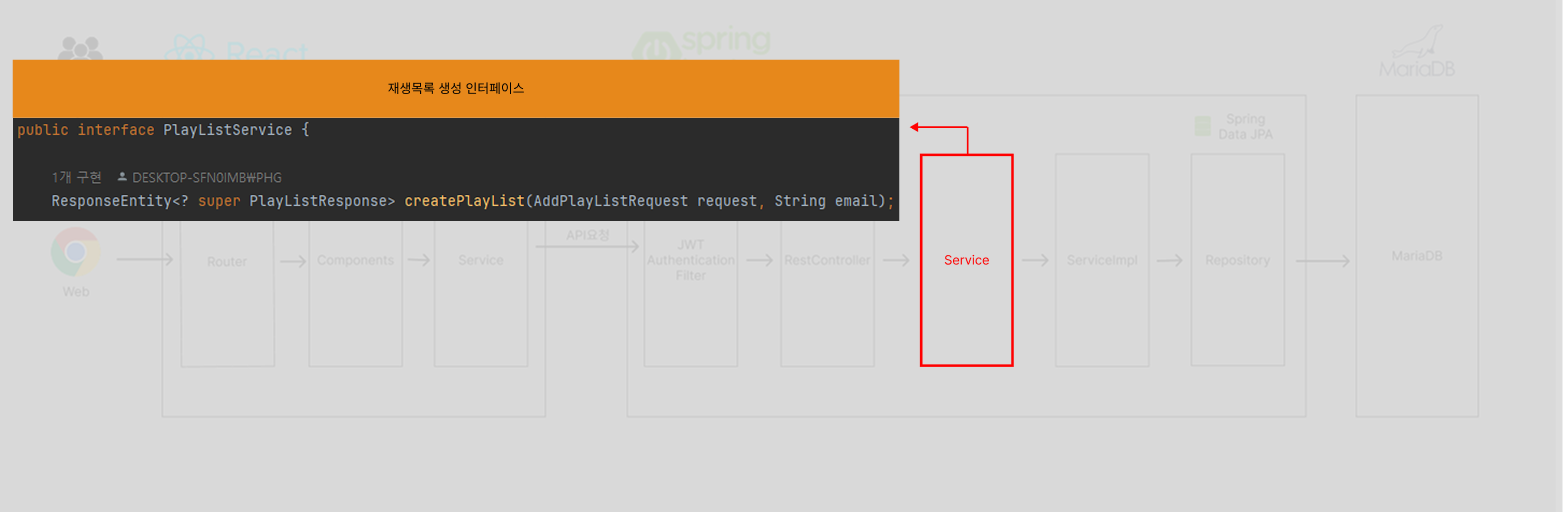
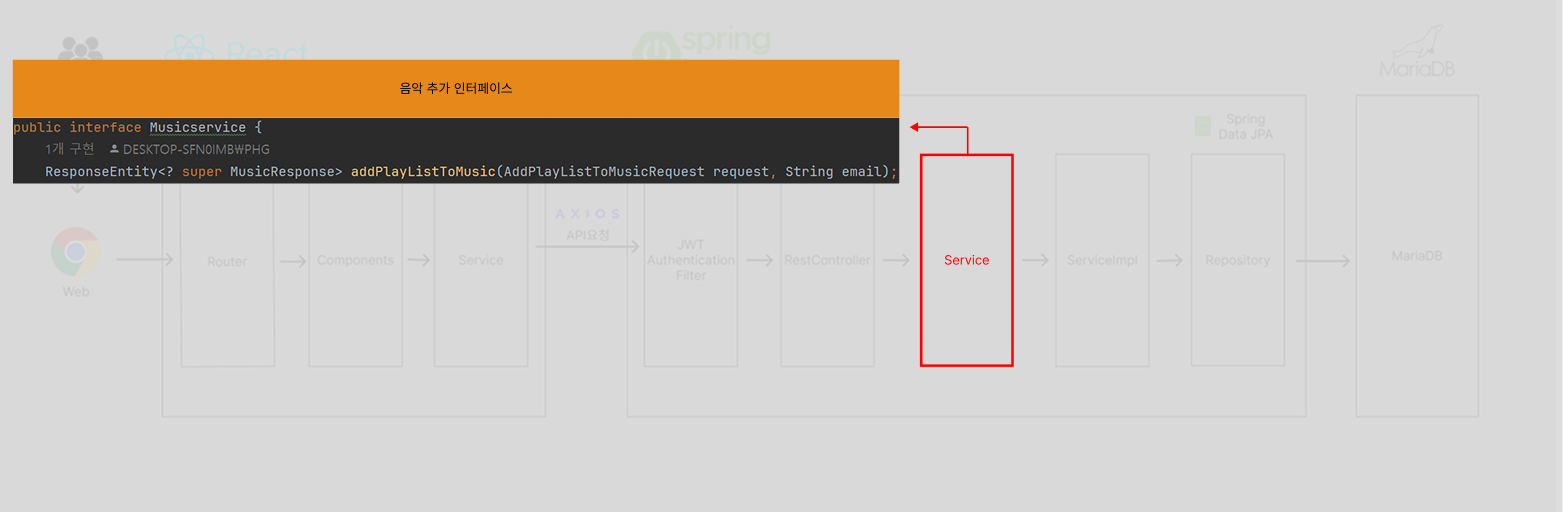
음악 정보 담는 dto 이름 수정, 흐름도 이미지 수정

Changed region(s): [[0.0, 0.2188, 0.5835, 0.4375], [0.2457, 0.1562, 0.3378, 0.1875]]

diff --git a/front/src/layouts/PlaylistLibrary/index.tsx b/front/src/layouts/PlaylistLibrary/index.tsx
@@ -10,7 +10,7 @@ import {
 } from "../../apis";
 import { useCookies } from "react-cookie";
 import ResponseDto from "../../apis/response/response.dto";
-import { YoutubeInfo } from "../../types/interface/youtube.interface";
+import { MusicInfoData } from "../../types/interface/music-info-data.interface";
 import CreatePlayListRequestDto from "../../apis/request/create-play-list-request.dto";
 import GetPlaylistResponseDto from "../../apis/response/PlayList/playlist-library.dto";
 import { ResponseUtil } from "../../utils";
@@ -20,7 +20,7 @@ import { useParams } from "react-router-dom";
 import Music from "../../types/interface/music.interface";
 
 interface PlaylistLibraryProps {
-  infoData: YoutubeInfo;
+  infoData: MusicInfoData;
   infoDuration: number;
   playlistPopupOpen: boolean;
   setPlaylistPopupOpen: React.Dispatch<React.SetStateAction<boolean>>;
@@ -53,7 +53,7 @@ const PlaylistLibrary: React.FC<PlaylistLibraryProps> = ({
   const toggleAddMusicToPlaylist = (
     requestBody: AddPlayListToMusicRequestDto
   ) => {
-    if (!requestBody.youtube) {
+    if (!requestBody.musicInfoData) {
       return;
     }
     console.log("로딩 true");
@@ -210,7 +210,7 @@ const PlaylistLibrary: React.FC<PlaylistLibraryProps> = ({
                   onClick={(event: React.MouseEvent<HTMLLIElement>) => (
                     event.stopPropagation(),
                     toggleAddMusicToPlaylist({
-                      youtube: infoData,
+                      musicInfoData: infoData,
                       infoDuration: infoDuration,
                       playlistId: playlist.playlistId,
                     })

diff --git a/front/src/hooks/useMediaInfo.ts b/front/src/hooks/useMediaInfo.ts
@@ -1,10 +1,10 @@
 import { useState } from "react";
-import { YoutubeInfo } from "../types/interface/youtube.interface";
+import { MusicInfoData } from "../types/interface/music-info-data.interface";
 
 const noEmbed = "https://noembed.com/embed?url=";
 // 커스텀 훅: useMediaInfo (YouTube, SoundCloud 모두 지원)
 const useMediaInfo = (defaultImage: string) => {
-  const [infoData, setInfoData] = useState<YoutubeInfo>({
+  const [infoData, setInfoData] = useState<MusicInfoData>({
     vidUrl: "-",
     author: "-",
     thumb: defaultImage,
@@ -13,7 +13,7 @@ const useMediaInfo = (defaultImage: string) => {
 
   const setMusicInfo = (
     url: string,
-    callback?: (data: YoutubeInfo) => void
+    callback?: (data: MusicInfoData) => void
   ) => {
     const fullUrl = `${noEmbed}${url}`;
     fetch(fullUrl)

diff --git a/front/src/store/useVideo.store.ts b/front/src/store/useVideo.store.ts
@@ -1,5 +1,5 @@
 import { create } from "zustand";
-import { YoutubeInfo } from "../types/interface/youtube.interface";
+import { MusicInfoData } from "../types/interface/music-info-data.interface";
 
 // Zustand 상태 정의
 interface VideoState {
@@ -10,8 +10,8 @@ interface VideoState {
   playBarUrl: string | ""; // playBar에 사용하는 Url 상태
   setPlayBarUrl: (playBarUrl: string | "") => void; // 비디오 URL을 설정하는 함수
 
-  playBarInfo: YoutubeInfo | null;
-  setPlayBarInfo: (info: YoutubeInfo) => void;
+  playBarInfo: MusicInfoData | null;
+  setPlayBarInfo: (info: MusicInfoData) => void;
 
   // ============================================
 

diff --git a/front/src/apis/request/add-playlist-to-music.dto.ts b/front/src/apis/request/add-playlist-to-music.dto.ts
@@ -1,7 +1,7 @@
-import { YoutubeInfo } from "../../types/interface/youtube.interface";
+import { MusicInfoData } from "../../types/interface/music-info-data.interface";
 
 export default interface AddPlayListToMusicRequestDto {
-  youtube: YoutubeInfo;
+  musicInfoData: MusicInfoData;
   infoDuration: number;
   playlistId: bigint;
 }

diff --git a/front/src/types/interface/music-info-data.interface.ts b/front/src/types/interface/music-info-data.interface.ts
@@ -1,5 +1,4 @@
-// src/dto/YoutubeInfo.ts
-export interface YoutubeInfo {
+export interface MusicInfoData {
   vidUrl: string | null;
   author: string | null;
   thumb: string | null;

diff --git a/https-music-player/src/main/java/com/hmplayer/https_music_player/domain/service/impl/MusicServiceImpl.java b/https-music-player/src/main/java/com/hmplayer/https_music_player/domain/service/impl/MusicServiceImpl.java
@@ -1,14 +1,11 @@
 package com.hmplayer.https_music_player.domain.service.impl;
 
-import com.hmplayer.https_music_player.domain.dto.object.YoutubeDto;
+import com.hmplayer.https_music_player.domain.dto.object.MusicInfoDataDto;
 import com.hmplayer.https_music_player.domain.dto.request.AddPlayListToMusicRequest;
-import com.hmplayer.https_music_player.domain.dto.request.UpdatePlaylistNameRequest;
 import com.hmplayer.https_music_player.domain.dto.request.UpdatePlaylistOrderRequest;
-import com.hmplayer.https_music_player.domain.dto.response.music.CopyMusicResponse;
 import com.hmplayer.https_music_player.domain.dto.response.music.DeleteMusicResponse;
 import com.hmplayer.https_music_player.domain.dto.response.music.MusicResponse;
 import com.hmplayer.https_music_player.domain.dto.response.music.UpdateOrderValueResponse;
-import com.hmplayer.https_music_player.domain.dto.response.playlist.UpdatePlaylistNameResponse;
 import com.hmplayer.https_music_player.domain.jpa.entity.Music;
 import com.hmplayer.https_music_player.domain.jpa.entity.Playlist;
 import com.hmplayer.https_music_player.domain.jpa.entity.PlaylistMusic;
@@ -22,7 +19,6 @@ import com.hmplayer.https_music_player.domain.service.Musicservice;
 import com.sun.jdi.InternalException;
 import lombok.RequiredArgsConstructor;
 import lombok.extern.slf4j.Slf4j;
-import org.springframework.http.HttpStatus;
 import org.springframework.http.ResponseEntity;
 import org.springframework.stereotype.Service;
 
@@ -30,7 +26,6 @@ import java.util.Collections;
 import java.util.Comparator;
 import java.util.List;
 import java.util.Optional;
-import java.util.stream.Collectors;
 import java.util.stream.IntStream;
 
 @Service
@@ -47,17 +42,13 @@ public class MusicServiceImpl implements Musicservice {
     // 음악 추가
     @Override
     public ResponseEntity<? super MusicResponse> addPlayListToMusic(AddPlayListToMusicRequest request, String token) {
-        String pureToken = token.replace("Bearer ", "").trim();
-
-        jwtSecurity.isValid(pureToken); // 엑세스 토큰 유효하니?
-
-        YoutubeDto youtube = request.getYoutube();
+        MusicInfoDataDto musicInfoData = request.getMusicInfoData();
         int infoDuration = request.getInfoDuration();
         Long playlistId = request.getPlaylistId();
-        log.info("추가할 노래 제목 = {}, infoDuration = {}, 추가할 플레이리스트 ID = {}", youtube.getVidTitle(),infoDuration,playlistId);
+        log.info("추가할 노래 제목 = {}, infoDuration = {}, 추가할 플레이리스트 ID = {}", musicInfoData.getVidTitle(),infoDuration,playlistId);
 
 
-        Optional<PlaylistMusic> findExistingMusic = playlistMusicRepoService.findByPlaylistIdAndMusicUrl(playlistId,youtube.getVidUrl());
+        Optional<PlaylistMusic> findExistingMusic = playlistMusicRepoService.findByPlaylistIdAndMusicUrl(playlistId,musicInfoData.getVidUrl());
 
         log.info("findExistingMusic = {}", findExistingMusic);
 
@@ -78,7 +69,7 @@ public class MusicServiceImpl implements Musicservice {
 
         Playlist playlist = optionalPlaylist.get();
 
-        Music addMusicInfo = new Music(youtube, infoDuration);
+        Music addMusicInfo = new Music(musicInfoData, infoDuration);
 
 //
         // playlist.getMusics()에서 현재 최대 order 값 가져오기
@@ -119,15 +110,6 @@ public class MusicServiceImpl implements Musicservice {
         throw new InternalException();
         }
     }
-
-//    @Override
-//    public ResponseEntity<? super CopyMusicResponse> copyMusic(Long musicId, String email) {
-//        log.info("클라이언트에서 받아온 데이터 : musicId = {}, email = {}",musicId,email);
-//        System.out.println("musicId = " + musicId);
-//        System.out.println("email = " + email);
-//        return CopyMusicResponse.success();
-//    }
-
 
     // 음악 순서 변경
     @Override

diff --git a/https-music-player/src/main/java/com/hmplayer/https_music_player/domain/jpa/entity/Music.java b/https-music-player/src/main/java/com/hmplayer/https_music_player/domain/jpa/entity/Music.java
@@ -1,6 +1,6 @@
 package com.hmplayer.https_music_player.domain.jpa.entity;
 
-import com.hmplayer.https_music_player.domain.dto.object.YoutubeDto;
+import com.hmplayer.https_music_player.domain.dto.object.MusicInfoDataDto;
 import jakarta.persistence.*;
 import lombok.Getter;
 import lombok.NoArgsConstructor;
@@ -45,7 +45,7 @@ public class Music {
     @OneToMany(mappedBy = "music", cascade = CascadeType.ALL, orphanRemoval = true, fetch = FetchType.LAZY)
     private List<PlaylistMusic> playlists;  // 연결된 재생 목록들
 
-    public Music(YoutubeDto youtube, int duration) {
+    public Music(MusicInfoDataDto youtube, int duration) {
         this.title = youtube.getVidTitle();
         this.author = youtube.getAuthor();
         this.imageUrl = youtube.getThumb();

diff --git a/https-music-player/src/main/java/com/hmplayer/https_music_player/domain/jpa/service/PlayListRepoService.java b/https-music-player/src/main/java/com/hmplayer/https_music_player/domain/jpa/service/PlayListRepoService.java
@@ -19,15 +19,17 @@ public class PlayListRepoService {
     private final PlayListRepository playListRepository;
 
     @Transactional
+    public Optional<Playlist> findById(Long playlistId) {
+        return playListRepository.findById(playlistId);
+    }
+
+    @Transactional
     public void save(Playlist playlist) {
         playListRepository.save(playlist);
     }
 
 
-    @Transactional
-    public Optional<Playlist> findById(Long playlistId) {
-        return playListRepository.findById(playlistId);
-    }
+
 
     @Transactional
     public Optional<Playlist> findPlaylistByUserAndPlaylistId(Long userId, Long playlistId){

diff --git a/https-music-player/src/main/java/com/hmplayer/https_music_player/domain/jpa/service/MusicRepoService.java b/https-music-player/src/main/java/com/hmplayer/https_music_player/domain/jpa/service/MusicRepoService.java
@@ -17,16 +17,13 @@ import java.util.Optional;
 @RequiredArgsConstructor
 @Slf4j
 public class MusicRepoService {
-
     private final MusicRepository musicRepository;
 
     @Transactional
     public void save(Music playlist) {
         musicRepository.save(playlist);
-//        log.info("저장된 데이터: 생성일 = {}, ID = {}, 제목 = {}, 사용자 = {}",
-//                playlist.getCreateDate(), playlist.getPlaylistId(),
-//                playlist.getTitle(), playlist.getUserName());
     }
+
     @Transactional
     public void deleteByMusicId(Long musicId) {
         musicRepository.deleteByMusicId(musicId);

diff --git a/https-music-player/src/main/java/com/hmplayer/https_music_player/domain/dto/request/AddPlayListToMusicRequest.java b/https-music-player/src/main/java/com/hmplayer/https_music_player/domain/dto/request/AddPlayListToMusicRequest.java
@@ -1,15 +1,13 @@
 package com.hmplayer.https_music_player.domain.dto.request;
 
-import com.hmplayer.https_music_player.domain.dto.object.YoutubeDto;
+import com.hmplayer.https_music_player.domain.dto.object.MusicInfoDataDto;
 import lombok.Getter;
 import lombok.Setter;
-
-import java.util.List;
 
 @Setter
 @Getter
 public class AddPlayListToMusicRequest {
-    private YoutubeDto youtube;
+    private MusicInfoDataDto musicInfoData;
     private int infoDuration;
     private Long playlistId;
 

diff --git a/https-music-player/src/main/java/com/hmplayer/https_music_player/domain/dto/object/MusicInfoDataDto.java b/https-music-player/src/main/java/com/hmplayer/https_music_player/domain/dto/object/MusicInfoDataDto.java
@@ -7,7 +7,7 @@ import lombok.ToString;
 @Getter
 @Setter
 @ToString
-public class YoutubeDto {
+public class MusicInfoDataDto {
     private String vidUrl;
     private String author;
     private String thumb;
